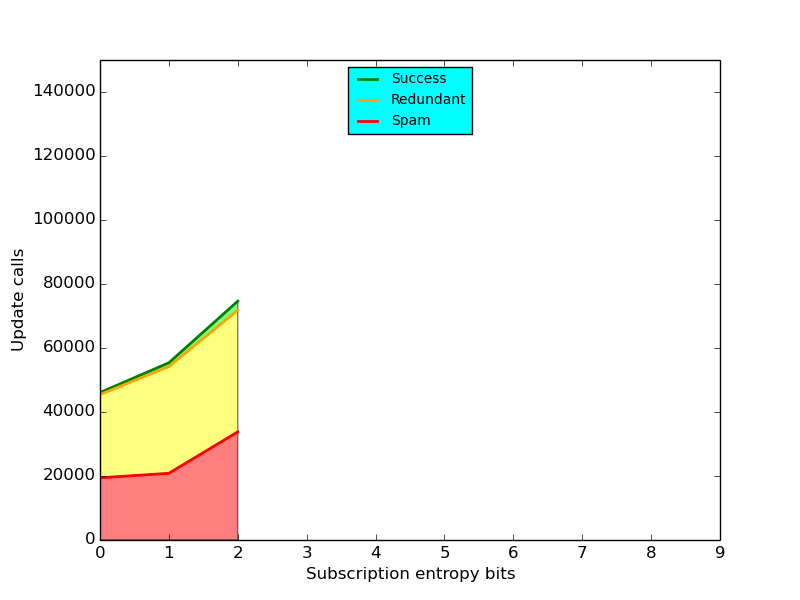
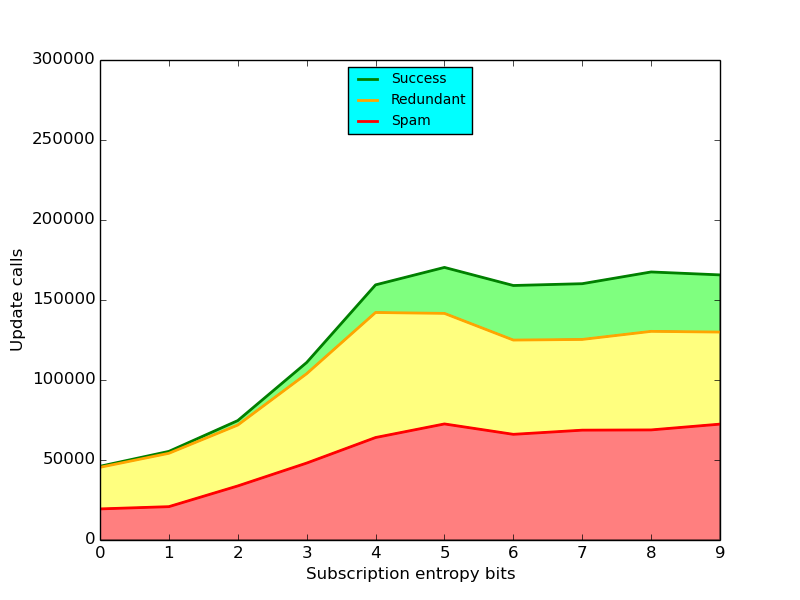
updated test results

diff --git a/benchmark/filterupdates_sub_entropy_plot.py b/benchmark/filterupdates_sub_entropy_plot.py
@@ -13,15 +13,13 @@ samples = [
     json.load(open("benchmark/filterupdates_sub_entropy_test_a.json", "r")),
     json.load(open("benchmark/filterupdates_sub_entropy_test_b.json", "r")),
     json.load(open("benchmark/filterupdates_sub_entropy_test_c.json", "r")),
-#   json.load(open("benchmark/filterupdates_sub_entropy_test_d.json", "r")),
-#   json.load(open("benchmark/filterupdates_sub_entropy_test_e.json", "r")),
-#   json.load(open("benchmark/filterupdates_sub_entropy_test_f.json", "r")),
-#   json.load(open("benchmark/filterupdates_sub_entropy_test_g.json", "r")),
-#   json.load(open("benchmark/filterupdates_sub_entropy_test_h.json", "r")),
-#   json.load(open("benchmark/filterupdates_sub_entropy_test_i.json", "r")),
-#   json.load(open("benchmark/filterupdates_sub_entropy_test_j.json", "r")),
-#   json.load(open("benchmark/filterupdates_sub_entropy_test_k.json", "r")),
-#   json.load(open("benchmark/filterupdates_sub_entropy_test_l.json", "r")),
+    json.load(open("benchmark/filterupdates_sub_entropy_test_d.json", "r")),
+    json.load(open("benchmark/filterupdates_sub_entropy_test_e.json", "r")),
+    json.load(open("benchmark/filterupdates_sub_entropy_test_f.json", "r")),
+    json.load(open("benchmark/filterupdates_sub_entropy_test_g.json", "r")),
+    json.load(open("benchmark/filterupdates_sub_entropy_test_h.json", "r")),
+    json.load(open("benchmark/filterupdates_sub_entropy_test_i.json", "r")),
+    json.load(open("benchmark/filterupdates_sub_entropy_test_j.json", "r")),
 ]
 
 
@@ -43,7 +41,7 @@ plot.set_xlabel('Subscription entropy bits')
 plot.set_ylabel('Update calls')
 # plot.set_xscale('log')
 # plot.set_yscale('log')
-plot.axis([0, 9, 0, 150000])
+plot.axis([0, 9, 0, 300000])
 
 
 # add plots

diff --git a/benchmark/filterupdates_quasar_extraprop_plot.py b/benchmark/filterupdates_quasar_extraprop_plot.py
@@ -20,13 +20,13 @@ samples = [
     json.load(open("benchmark/filterupdates_quasar_extraprop_h.json", "r")),
     json.load(open("benchmark/filterupdates_quasar_extraprop_i.json", "r")),
     json.load(open("benchmark/filterupdates_quasar_extraprop_j.json", "r")),
-#   json.load(open("benchmark/filterupdates_quasar_extraprop_k.json", "r")),
-#   json.load(open("benchmark/filterupdates_quasar_extraprop_l.json", "r")),
-#   json.load(open("benchmark/filterupdates_quasar_extraprop_m.json", "r")),
-#   json.load(open("benchmark/filterupdates_quasar_extraprop_n.json", "r")),
-#   json.load(open("benchmark/filterupdates_quasar_extraprop_o.json", "r")),
-#   json.load(open("benchmark/filterupdates_quasar_extraprop_p.json", "r")),
-#   json.load(open("benchmark/filterupdates_quasar_extraprop_q.json", "r")),
+    json.load(open("benchmark/filterupdates_quasar_extraprop_k.json", "r")),
+    json.load(open("benchmark/filterupdates_quasar_extraprop_l.json", "r")),
+    json.load(open("benchmark/filterupdates_quasar_extraprop_m.json", "r")),
+    json.load(open("benchmark/filterupdates_quasar_extraprop_n.json", "r")),
+    json.load(open("benchmark/filterupdates_quasar_extraprop_o.json", "r")),
+    json.load(open("benchmark/filterupdates_quasar_extraprop_p.json", "r")),
+    json.load(open("benchmark/filterupdates_quasar_extraprop_q.json", "r")),
 ]
 
 
